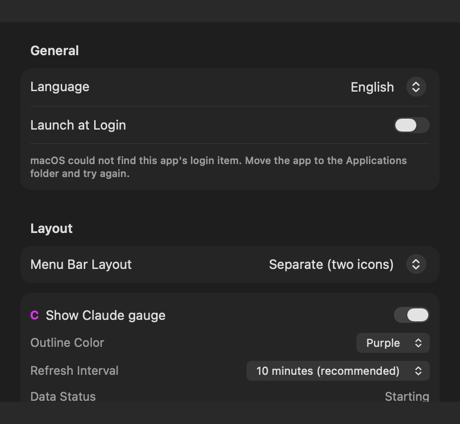
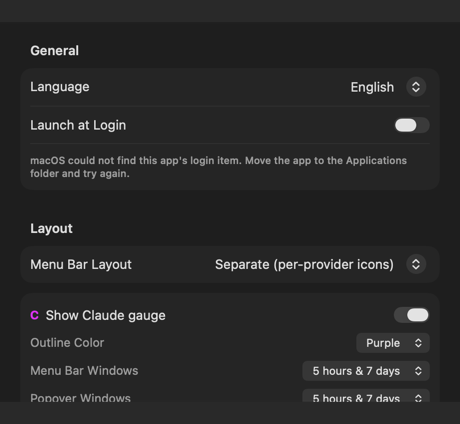
docs: update READMEs, screenshots, roadmap, and verification log for Antigravity

diff --git a/README.en.md b/README.en.md
@@ -2,16 +2,16 @@
 
 [繁體中文](README.md) | **English**
 
-A Claude and Codex usage meter for the macOS menu bar. See how much of your subscription allowance you have used without opening a usage page or typing a command.
+A Claude, Codex, and Antigravity usage meter for the macOS menu bar. See how much of your subscription allowance you have used without opening a usage page or typing a command.
 
 > [!WARNING]
 > Apple Silicon alpha release. Builds are ad-hoc signed and **not Apple-notarized**, so they do not carry an Apple-verifiable publisher identity. macOS is expected to require manual approval after downloading the app.
-> Both usage readings come from local CLIs: Claude runs a fixed `/usage` query and prefers its structured report, falling back to text only when no report is attached. Codex uses the read-only App Server interface. Untrustworthy formats produce “Unknown” rather than guessed values.
+> All usage readings come from local official CLIs: Claude and Antigravity each run a fixed read-only `/usage` query, while Codex uses the read-only App Server interface. Untrustworthy formats produce “Unknown” rather than guessed values.
 
 > [!NOTE]
 > **Known Claude issue:** In some cases, the background `/usage` query keeps showing “Response format changed” until the user launches `claude` once in Terminal. If this happens, launch Claude Code, complete any sign-in prompt, return to the app, and click Refresh. The app does not sign you in or repair credentials for you; see the Claude section below for details.
 
-This project is not affiliated with or endorsed by Anthropic or OpenAI. All icons are original and do not use either company's official marks.
+This project is not affiliated with or endorsed by Anthropic, OpenAI, or Google. All icons are original and do not use any company's official marks.
 
 ## Screenshots
 
@@ -22,10 +22,10 @@ This project is not affiliated with or endorsed by Anthropic or OpenAI. All icon
 <p align="center"><sub>Shared-frame gauges at native size and 2.5× in light and dark appearances. Images use the production renderer and synthetic readings.</sub></p>
 
 <p align="center">
-  <img src="docs/images/combined-popover-dark.png" width="320" alt="Combined Claude and Codex usage popover in dark mode">
+  <img src="docs/images/combined-popover-dark.png" width="320" alt="Combined Claude, Codex, and Antigravity usage popover in dark mode">
 </p>
 
-<p align="center"><sub>Combined Claude and Codex usage in dark mode. Every number is synthetic demo data, not real account information.</sub></p>
+<p align="center"><sub>Combined Claude, Codex, and Antigravity usage in dark mode. Every number is synthetic demo data, not real account information.</sub></p>
 
 <p align="center">
   <img src="docs/images/settings-zh-dark.png" width="46%" alt="Settings in Traditional Chinese">
@@ -36,12 +36,12 @@ This project is not affiliated with or endorsed by Anthropic or OpenAI. All icon
 
 ## What it does
 
-Each provider has one shared rectangular gauge, divided into **five hours on the left and seven days on the right**. Fill height represents the percentage already used. Each provider stays at 27 × 18 pt, and the combined image is 57 × 18 pt. Click it to see detailed values for each usage window.
+By default, each provider has one shared rectangular gauge, divided into **five hours on the left and seven days on the right**. Fill height represents the percentage already used. Each provider can independently configure its **Menu Bar Windows** and **Popover Windows** to show “5 hours & 7 days”, “5 hours only”, or “7 days only”. Dual-window gauges stay at 27 × 18 pt, single-window gauges (including Antigravity Free plans with no 5-hour window) render at 20 × 18 pt, and a combined three-provider dual-window image is 87 × 18 pt. Click it to see detailed values for each usage window and Antigravity model group.
 
 - The **outline color** identifies the provider and can be customized.
 - The **fill color** represents usage (0–49% green, 50–79% orange, 80–99% red, and exhaustion at 100%) and cannot be customized. Color depends only on the percentage, not on each provider's own severity label; otherwise the same orange would mean different things on adjacent gauges.
-- **At 10% remaining or less, each window shows its remaining percentage**, including 10% and an exhausted 0%. The number and percent sign are stacked inside that window's existing half, keeping the width fixed. Stale and rate-limited readings retain their status artwork. Used and remaining percentages are also in the tooltip, VoiceOver label, and popover. A grey dash means no reading; a grey slash means Claude did not list that limit. Neither means 0% used.
-- The **letter on the left** (`C` / `X`) is a second identity cue that does not depend on color, so the providers remain distinguishable for color-blind users or when similar outline colors are selected.
+- **At 10% remaining or less, each window shows its remaining percentage**, including 10% and an exhausted 0%. The number and percent sign are stacked inside that window's existing slot, keeping the width fixed. Stale and rate-limited readings retain their status artwork. Used and remaining percentages are also in the tooltip, VoiceOver label, and popover. A grey dash means no reading; a grey slash means Claude did not list that limit. Neither means 0% used.
+- The **letter on the left** (`C` / `X` / `A`) is a second identity cue that does not depend on color, so the providers remain distinguishable for color-blind users or when similar outline colors are selected.
 
 When a provider **explicitly reports failure**, the app never presents old data as current. If a previous value exists, it is marked Stale with its fetch time; without trustworthy data, the app shows Unavailable. The design rule is that **unknown is never drawn as 0%**. The Codex decoder rejects out-of-range or non-integer percentages instead of clamping malformed input into a plausible-looking 0 or 100.
 
@@ -49,15 +49,15 @@ The app retains a visual rate-limited state, but neither current live path is gu
 
 ## Product scope: low permission, privacy first
 
-Agent Usage Bar is not intended to be a complete AI usage analytics platform. It primarily answers: **how much of the current Claude or Codex subscription allowance has been used, and how many tokens has the Codex account used?** The app deliberately does not read or store `auth.json`, OAuth tokens, Keychain credentials, conversation transcripts, task JSONL, or local databases. It also does not provide multi-account switching, cross-device sync, or its own long-term tracking database.
+Agent Usage Bar is not intended to be a complete AI usage analytics platform. It primarily answers: **how much of the current Claude, Codex, or Antigravity subscription allowance has been used, and how many tokens has the Codex account used?** The app deliberately does not read or store `auth.json`, OAuth tokens, Keychain credentials, conversation transcripts, task JSONL, or local databases, nor does it inspect unrelated local background processes. It also does not provide multi-account switching, cross-device sync, or its own long-term tracking database.
 
-The installed and signed-in official CLIs perform the queries: Claude runs a fixed read-only `/usage` command, while Codex uses the read-only App Server methods `account/rateLimits/read` and `account/usage/read`. The latter directly reports lifetime tokens, peak daily tokens, and daily buckets; the app does not reconstruct them by scanning local tasks. Only parsed UI values and the latest snapshot are retained. Sign-in, renewal, and credential storage remain the responsibility of the official tools.
+The installed and signed-in official CLIs perform the queries: Claude and Antigravity each run a fixed read-only `/usage` command, while Codex uses the read-only App Server methods `account/rateLimits/read` and `account/usage/read`. The latter directly reports lifetime tokens, peak daily tokens, and daily buckets; the app does not reconstruct them by scanning local tasks. Only parsed UI values and the latest snapshot are retained. Sign-in, renewal, and credential storage remain the responsibility of the official tools.
 
 This boundary is an intentional product tradeoff, not an unfinished feature list. The app gives up per-request and per-task token history, cached-token breakdowns, cost estimates, and multi-account management, but does not need the conversation content and login access those features would require. When an upstream format or data freshness cannot be trusted, the app shows Unknown instead of reading a more sensitive source to keep the UI populated.
 
 ## Current status
 
-Both **Claude and Codex** are supported. They query, retry, and disable independently, so failure on one side does not block the other.
+**Claude, Codex, and Antigravity** are supported. They query, retry, disable, and configure menu bar vs. popover windows independently, so failure on one side does not block the others.
 
 The app does not accumulate its own usage samples or forecast usage. Usage persistence contains settings and **only the latest reading for each provider**—one snapshot that is overwritten. A Codex snapshot may contain the daily buckets returned by `account/usage/read`, which the popover draws as a daily chart; that is provider-maintained account history, not a sequence collected by this app. Quota and token statistics retain independent fetch timestamps and update on independent schedules; a failure on one side does not erase the other side's trusted result. The chart shows 30 days by default and can be set to 5, 10, 15, 20, 30, or 60 days; this changes only the visible range and does not delete provider data from the snapshot. The popover also shows today's official bucket. If Codex has not reported today yet, it says “Not reported yet” instead of treating the missing value as zero. Settings also include a privacy-safe error history containing time, provider, an app-defined error category, and a closed app-defined detail reason. Each entry can be expanded and its full safe explanation copied. Raw responses and arbitrary provider text are never stored. Logs are retained for five days by default, configurable to three or seven days, and can be cleared at any time.
 
@@ -108,7 +108,7 @@ Older macOS versions may also support the Control-click → Open shortcut; newer
 
 A `.sha256` proves only that the DMG bytes match the checksum you obtained. The checksum must come from a trusted or independent channel to be meaningful and cannot replace the publisher identity provided by Developer ID signing and Apple notarization.
 
-Requirements: macOS 14 or later, Apple Silicon, and a locally installed and signed-in Claude Code and/or Codex CLI for each enabled provider.
+Requirements: macOS 14 or later, Apple Silicon, and a locally installed and signed-in Claude Code, Codex CLI, and/or Antigravity CLI (`agy`) for each enabled provider.
 
 ## Where the data comes from
 
@@ -184,6 +184,18 @@ App Server is one long-lived child process, not a new process for every refresh.
 
 Because a GUI app's `PATH` often differs from Terminal, Settings → Data Sources can specify the Codex executable. Leaving it blank checks common installation locations and the current environment in order. The app verifies only that the path is executable, not its vendor signature; select only a Codex installation you trust. The query does not trigger model inference or consume ordinary Codex conversation allowance.
 
+### Antigravity
+
+The app runs the official Antigravity CLI (`agy`) with a fixed read-only command and decodes its structured JSON quota report:
+
+```bash
+agy -p /usage --output-format json --print-timeout 15s
+```
+
+Verified runs from an isolated empty temporary directory return `status="SUCCESS"`, `conversation_id=""`, `num_turns=0`, and zero token counts—no model inference runs, no quota is consumed, and no conversation is left behind. CLI logs are directed via `--log-file` into the per-query temporary directory and removed on exit. The app never reads credentials, modifies `~/.gemini/antigravity-cli/`, or scans running `language_server` processes.
+
+Because Antigravity groups quotas by model pool (such as `Gemini Models`, `Claude and GPT models`, and `Gemini 4 Argon`), the menu bar tracks `Gemini Models` by default and can be configured independently in Settings to pin another group or “Highest used group”, alongside separate Menu Bar vs. Popover window selectors. When a plan or group has no 5-hour window (such as the Free plan), the menu bar automatically renders a single 7-day gauge. The popover displays all groups by default with per-row collapse persistence. See [Antigravity usage source](docs/ANTIGRAVITY_USAGE.md) for fields, conversion bounds, and unverified items.
+
 ## Development
 
 ```bash
@@ -236,6 +248,7 @@ See [docs/SIGNING.md](docs/SIGNING.md) for signing configuration.
 - [UI spec](docs/UI_SPEC.md) — the gauge visual language shared by both providers
 - [Claude usage source](docs/CLAUDE_USAGE.md) — fixed read-only command, text format, and failure strategy
 - [Codex usage source](docs/CODEX_USAGE.md) — App Server protocol, fields, and failure strategy
+- [Antigravity usage source](docs/ANTIGRAVITY_USAGE.md) — fixed read-only `agy` command, model-group mapping, and Free-plan handling
 - [Retired Keychain path](docs/LEGACY_KEYCHAIN_PATH.md) — lessons from the old credential-and-endpoint approach and when it might be reconsidered
 - [What did not work](docs/WHAT_DID_NOT_WORK.md) — rejected decisions and lessons learned
 - [Verification](docs/VERIFICATION.md) — what is checked and why those guards exist

diff --git a/docs/VERIFICATION.md b/docs/VERIFICATION.md
@@ -46,12 +46,15 @@
 | guard: unsupported Extra Usage | 正式 source 不得重新加入 `extraUsageEnabled` 或已移除的顯示列 | 兩個 live provider 都沒有穩定唯讀來源；帳務變更指令另由 Claude command guard 禁止 |
 | guard: Codex read-only | 出貨 source 不得出現登入、登出、consume reset credit 或寄信方法 | Codex provider 的授權邊界是帳號唯讀 |
 | guard: Claude command | 只有 `ClaudeUsageCommand.swift` 可建構 `Process`；arguments 清單逐字比對；`Claude/` 下不得出現登入／維護指令、shell，或 `usage-credits`／`extra-usage` | 後兩者帶有購買、申請或開啟額外計費的語意，不得拿來探測資料 |
+| guard: Antigravity command | 只有 `AntigravityUsageCommand.swift` 可建構 `Process`；arguments 清單逐字比對；`Antigravity/` 下不得出現非唯讀子命令或 shell | 確保 `agy` 只執行固定唯讀 `/usage` 查詢，不觸發登入、設定修改或模型回合 |
 | guard: no `rm` | 腳本刪檔一律用 `trash` | 刪錯要救得回來 |
 | `git diff --check` | 空白字元問題 | |
 
 ## 最近驗證節點
 
 這裡保留行為與驗證結果，不引用公開前的內部 commit hash。公開基線以可重跑的 `./scripts/verify.sh`、現行 source 與測試作為長期證據。
+
+2026-11-22，新增 Antigravity 供應商與 Toolbar／Popover 獨立時間窗設定：新增 `AntigravityUsageProvider`（透過固定唯讀 `agy -p /usage --output-format json --print-timeout 15s` 與隔離暫存 `--log-file` 讀取多模型群組額度，要求 `status="SUCCESS"`、`command.name="usage"` 與 `num_turns=0`，`remaining_fraction` 精確換算且極小剩餘不誤判為 100% 耗盡）。所有供應商皆可分別獨立設定選單列與詳情面板顯示「5 小時與 7 天」、「僅 5 小時」或「僅 7 天」；單窗模式與 Antigravity Free／純週額度群組自動以 20 × 18 pt 單槽量表繪製。詳情面板單窗篩選抽至 `QuotaWindowDisplayMode.includesInPopover(_:provider:)`，Codex 依 `durationMinutes`（300／10,080）判斷且單窗模式不再納入未知期間。完整 `./scripts/verify.sh` 通過 **295 項／28 suites**（含 `AntigravityProviderTests` 14 項與 `QuotaDisplayPreferencesTests` 2 項）、Debug／Release Xcode builds、三家合併與單槽隔離 AppKit diagnostics、雙語設定與合併面板繪製、正式設定指紋未變動、Antigravity 靜態唯讀指令護欄與 `git diff --check`。另已檢視正式繪圖器產生的合成預覽圖並更新 `docs/images/` 與中英文 README。尚未建立正式候選版或執行任何 GitHub 遠端操作。
 
 2026-11-07，低額度數字與供應商標題：Claude／Codex 的 5 小時與一般週額度各自以剩餘整數百分比判斷，10% 以下（含 10%）在原半格內改為「數字在上、% 在下」，耗盡顯示 0%；缺值、過期、超過 reset 與限流維持原本狀態標記，不以數字掩蓋。兩半可同時顯示不同剩餘值，每家 27 × 18 pt／合併 57 × 18 pt 不變。Codex Token 區塊標題補上供應商名稱，提供英文與繁中版本。
 

diff --git a/docs/ROADMAP.md b/docs/ROADMAP.md
@@ -2,11 +2,11 @@
 
 ## 已完成
 
-**產品與 UI**：Claude／Codex 雙量表、合併選單列圖示、popover 詳情、目前 Space 的設定視窗、內容超出螢幕時才捲動、中英文切換、登入時啟動與原創圖示均已完成並經使用者確認。視覺與互動契約見 [UI_SPEC.md](UI_SPEC.md)。
+**產品與 UI**：Claude／Codex／Antigravity 三家量表、合併選單列圖示、Toolbar 與 Popover 獨立時間窗設定（5h／7d／兩者）與單槽／雙槽自適應繪製、Antigravity 多模型群組與 Free 方案自動單槽、popover 詳情、目前 Space 的設定視窗、內容超出螢幕時才捲動、中英文切換、登入時啟動與原創圖示均已完成並經使用者確認。視覺與互動契約見 [UI_SPEC.md](UI_SPEC.md)。
 
-**共用外框雙時間窗**：每家固定左 5 小時、右 7 天，合併圖像寬 57 pt；剩餘 10% 以下各自在半格內顯示剩餘數字與 `%`，Codex Token 區塊補上供應商名稱。詳情保留缺值位置，Claude 合法缺列／空清單與 Codex 依期間分類、原始位置推播合併均已實作並通過本機完整驗證。低額度數字仍待安裝後使用真實帳號驗收，範圍與證據見 [VERIFICATION.md](VERIFICATION.md) 的 2026-11-07 紀錄。
+**共用外框雙時間窗與單槽模式**：雙槽預設左 5 小時、右 7 天（每家 27 × 18 pt，三家全雙槽合併 87 pt）；單槽（設定選擇單窗或 Antigravity Free／純週額度群組）縮為 20 × 18 pt。剩餘 10% 以下各自在槽內顯示剩餘數字與 `%`，Codex Token 區塊補上供應商名稱。詳情保留缺值位置，Claude 合法缺列／空清單、Codex 依期間分類與原始位置推播合併、以及三家單窗 Popover 嚴格週期篩選均已實作並通過本機完整驗證。
 
-**唯讀 providers**：Claude 只執行固定、shell-free 的 `/usage` CLI 查詢；Codex 只使用官方 App Server 的 rate-limit read 與更新通知。兩者各自設定、退避、保存最新讀數，任何一邊失敗不拖累另一邊。資料來源與格式漂移分別見 [CLAUDE_USAGE.md](CLAUDE_USAGE.md) 與 [CODEX_USAGE.md](CODEX_USAGE.md)，共用的安全邊界見 [SAFETY.md](SAFETY.md)。
+**唯讀 providers**：Claude 與 Antigravity 分別只執行固定、shell-free 的 `/usage` CLI 查詢；Codex 只使用官方 App Server 的 rate-limit read、account usage read 與更新通知。三者各自設定、退避、保存最新讀數，任何一邊失敗不拖累另外兩邊。資料來源與格式漂移分別見 [CLAUDE_USAGE.md](CLAUDE_USAGE.md)、[CODEX_USAGE.md](CODEX_USAGE.md) 與 [ANTIGRAVITY_USAGE.md](ANTIGRAVITY_USAGE.md)，共用的安全邊界見 [SAFETY.md](SAFETY.md)。
 
 **可靠性與安全修正**：Codex sparse push 與逾時復原、設定切換隔離、Claude 時間窗 fail-closed、兩個 provider 的子程序 hard bound、Codex 數字 fail-closed、外部錯誤文字清理、未來時間戳自我修復、多原因輪詢暫停，以及取消排程與 UI 一致性均已完成。現行測試範圍見 [VERIFICATION.md](VERIFICATION.md)。
 
